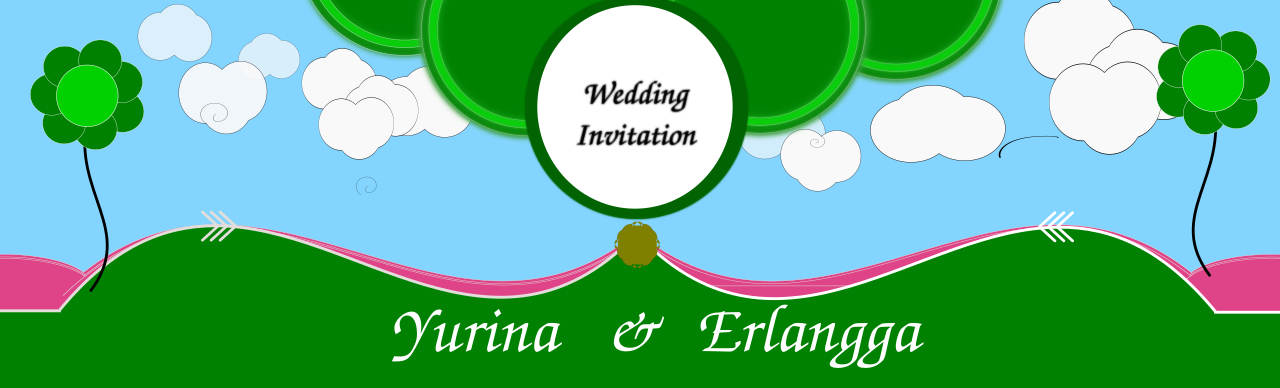
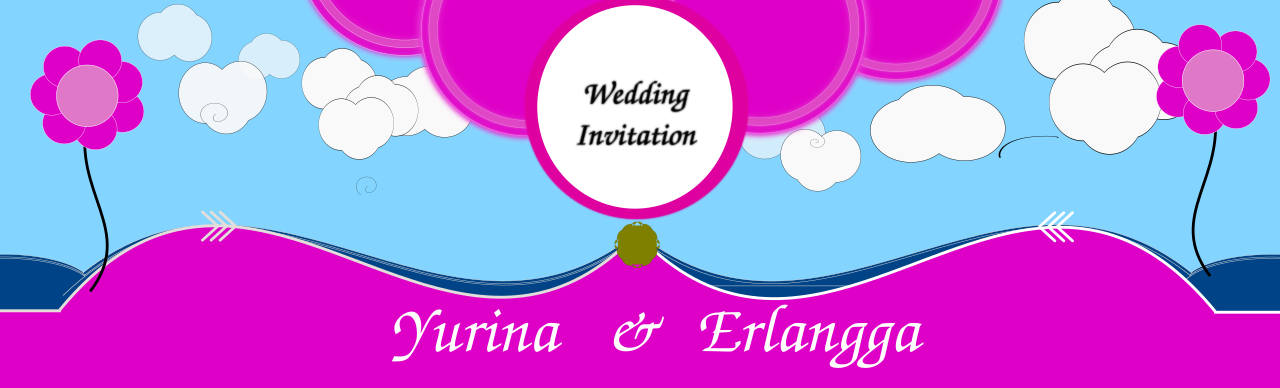
ganti warna pink

diff --git a/index.css b/index.css
@@ -38,11 +38,11 @@ body{
     /*default outside*/
     /*(specifies whether the list-item markers should appear inside or outside the content flow)*/
 
-    background: #008102; /* For browsers that do not support gradients */
-    background: linear-gradient(#008102, #005500); /* Standard syntax (must be last) */
-    background: -ms-linear-gradient(#008102, #005500); /* Standard syntax (must be last) */
-    background: -webkit-linear-gradient(#008102, #005500); /* Standard syntax (must be last) */
-    background: -moz-linear-gradient(#008102, #005500); /* Standard syntax (must be last) */
+    background: #de00c7; /* For browsers that do not support gradients */
+    background: linear-gradient(#de00c7, #ff22f9); /* Standard syntax (must be last) */
+    background: -ms-linear-gradient(#de00c7, #ff22f9); /* Standard syntax (must be last) */
+    background: -webkit-linear-gradient(#de00c7, #ff22f9); /* Standard syntax (must be last) */
+    background: -moz-linear-gradient(#de00c7, #ff22f9); /* Standard syntax (must be last) */
     position: sticky;
     top: 0px;
     z-index: 1;
@@ -54,7 +54,11 @@ body{
     border-bottom: 5px black solid;
 }
 #menu > tbody > tr > .active{
-    background: #008102;
+    background: #de00c7; /* For browsers that do not support gradients */
+    background: linear-gradient(#de00c7, #ef11d8); /* Standard syntax (must be last) */
+    background: -ms-linear-gradient(#de00c7, #ff22f9, #de00c7); /* Standard syntax (must be last) */
+    background: -webkit-linear-gradient(#de00c7, #ff22f9, #de00c7); /* Standard syntax (must be last) */
+    background: -moz-linear-gradient(#de00c7, #ff22f9, #de00c7); /* Standard syntax (must be last) */
 }
 
 td#lokasi{
